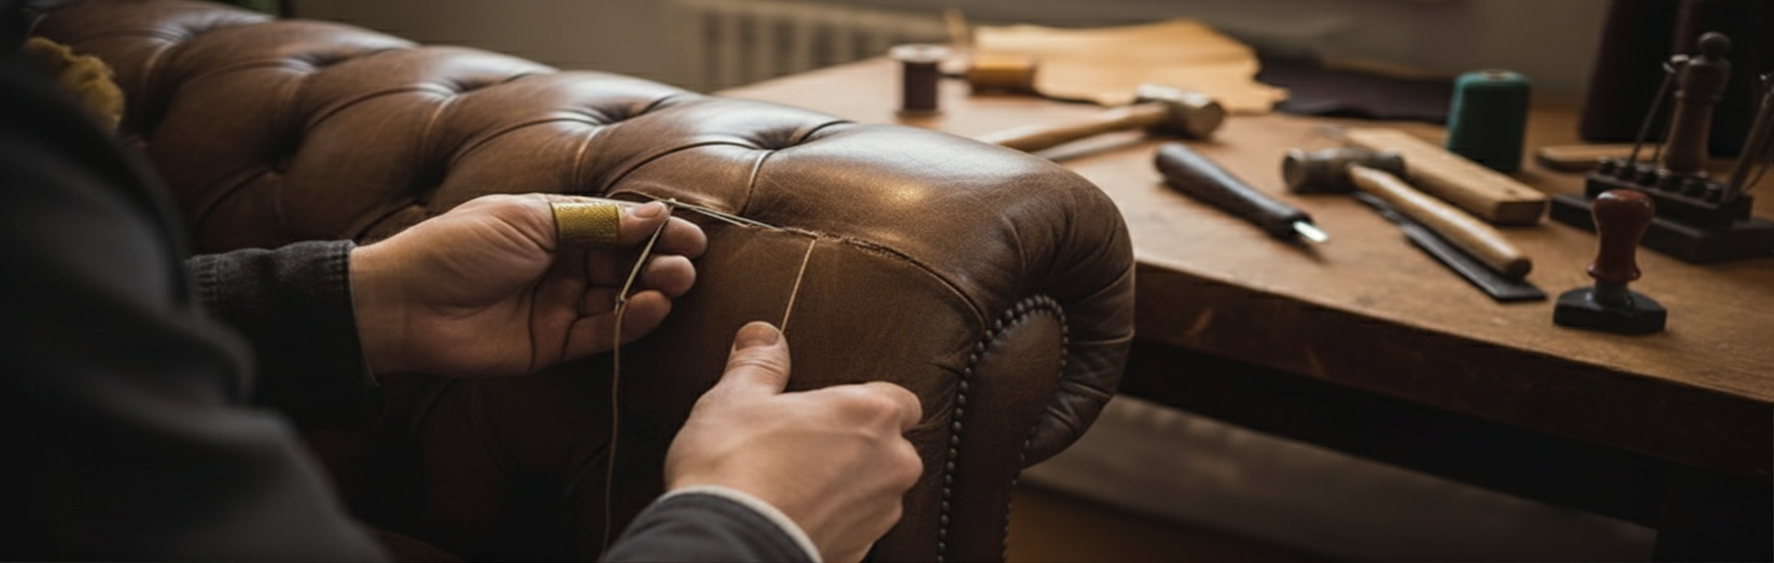
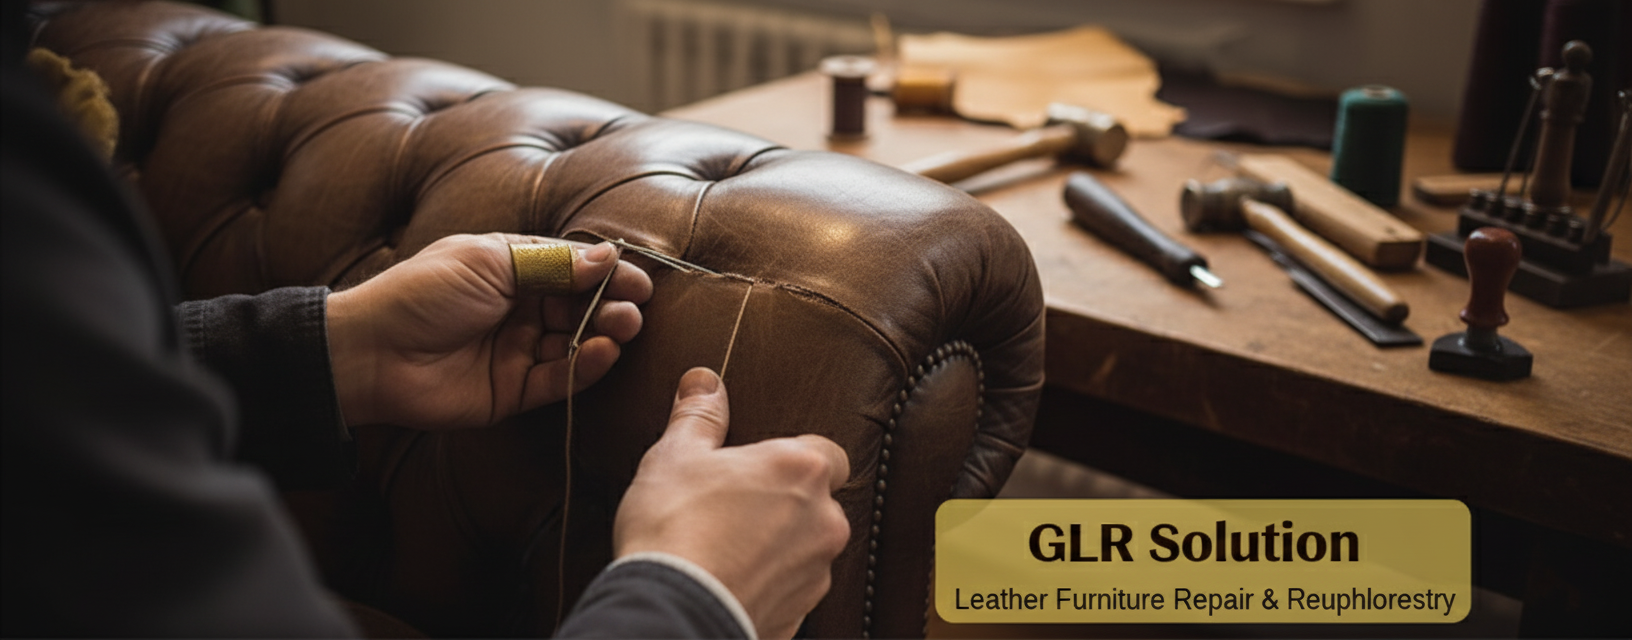
reverted to old cover photo

diff --git a/app/layout.tsx b/app/layout.tsx
@@ -17,21 +17,6 @@ export default function RootLayout({
                 alt="Cover"
                 className="w-full object-cover object-top h-[28vh] sm:h-[48vh] md:h-[56vh]"
               />
-              <div
-                className="absolute right-3 bottom-3 sm:right-6 sm:bottom-6 bg-[#cda632]/70 text-[#171717] px-2 py-1 z-50 rounded-md shadow-sm max-w-[140px] sm:max-w-[220px]"
-                style={{
-                  backdropFilter: "saturate(110%) blur(1px)",
-                  background:
-                    "linear-gradient(180deg, rgba(205,166,50,0.75), rgba(184,134,42,0.75))",
-                }}
-              >
-                <div className="font-extrabold text-[11px] sm:text-sm leading-tight">
-                  GLR Solution
-                </div>
-                <div className="text-[9px] sm:text-xs leading-tight">
-                  Leather Furniture Repair
-                </div>
-              </div>
             </div>
           </div>
           <div className="w-full">
